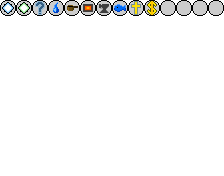
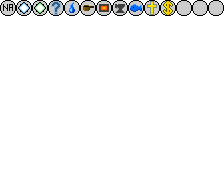
Better map marker placement + more markers

Changed region(s): [[0.0, 0.0, 0.7812, 0.0852]]

diff --git a/GielinorAdventures.GameLogic/GameManagers/WorldManager.cs b/GielinorAdventures.GameLogic/GameManagers/WorldManager.cs
@@ -1,4 +1,5 @@
-using System.Collections.Generic;
+using System;
+using System.Collections.Generic;
 using System.IO;
 using System.Linq;
 
@@ -162,18 +163,38 @@ namespace GielinorAdventures.GameLogic.GameManagers
                         continue;
                     }
 
+                    MapMarkerType type = MapMarkerType.None;
+
                     switch (worldObject.Type)
                     {
                         case WorldObjectType.Anvil:
-                            AddMapMarker(x, y, MapMarkerType.Anvil);
+                            type = MapMarkerType.Anvil;
                             break;
 
                         case WorldObjectType.Cooking:
-                            AddMapMarker(x, y, MapMarkerType.CookingStation);
+                            type = MapMarkerType.CookingStation;
                             break;
+
+                        case WorldObjectType.WaterSource:
+                            type = MapMarkerType.WaterSource;
+                            break;
+                    }
+
+                    if (type != MapMarkerType.None &&
+                        CheckMarkerPlacement(x, y, 16, type))
+                    {
+                        AddMapMarker(x, y, type);
                     }
                 }
             }
+        }
+
+        bool CheckMarkerPlacement(int x, int y, int radius, MapMarkerType type)
+        {
+            return mapMarkers
+                .Where(marker => marker.Type == type)
+                .All(marker => Math.Abs(marker.Location.X - x) >= radius ||
+                               Math.Abs(marker.Location.Y - y) >= radius);
         }
     }
 }

diff --git a/GielinorAdventures.Models/Enumerations/WorldObjectType.cs b/GielinorAdventures.Models/Enumerations/WorldObjectType.cs
@@ -9,6 +9,7 @@
         Furniture,
         Ore,
         Tree,
-        Wall
+        Wall,
+        WaterSource
     }
 }

diff --git a/GielinorAdventures.Models/Enumerations/MapMarkerType.cs b/GielinorAdventures.Models/Enumerations/MapMarkerType.cs
@@ -2,6 +2,7 @@
 {
     public enum MapMarkerType
     {
+        None,
         Quest,
         Task,
         Info,
